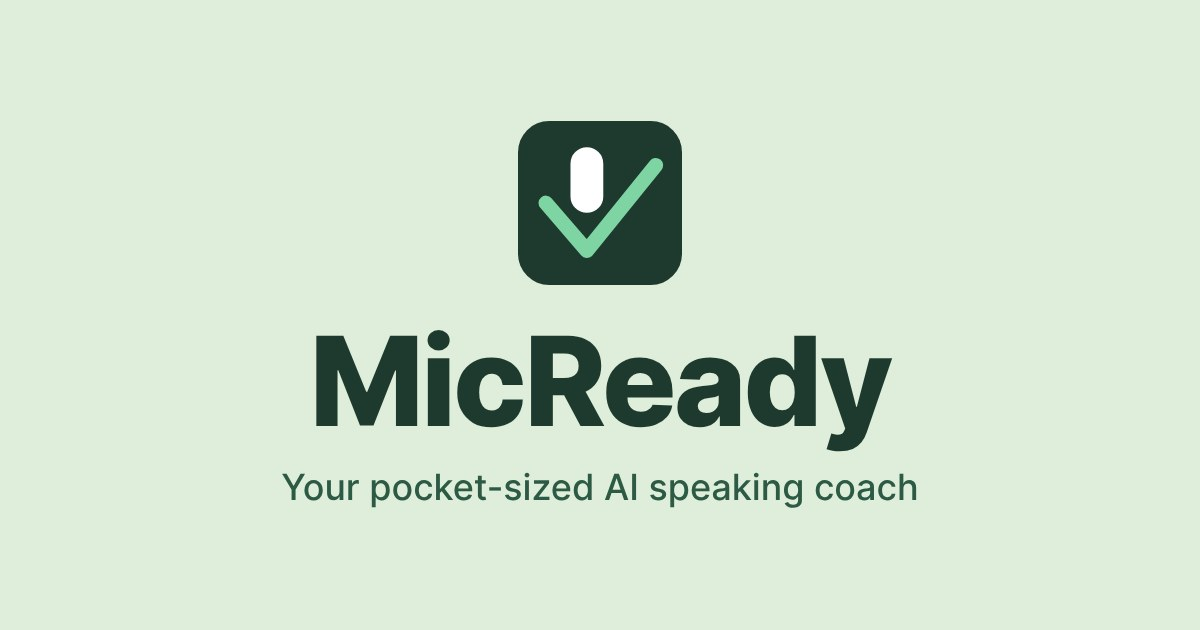
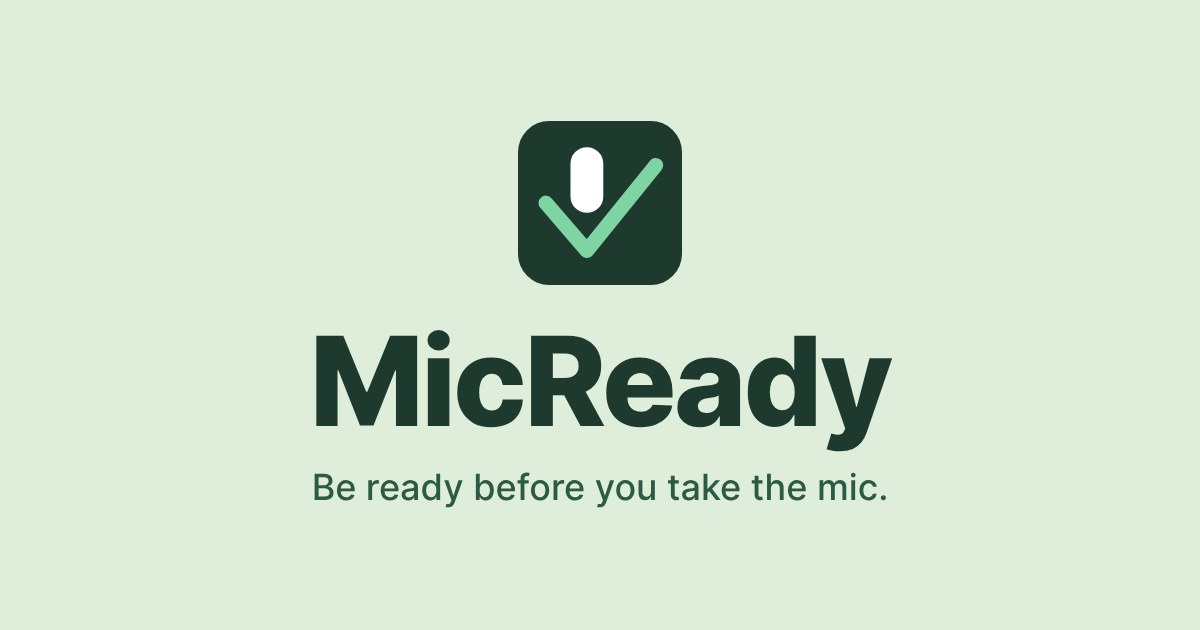
New tagline: "Be ready before you take the mic." (#18)
- Home page hero line and the social preview image use the new tagline.
- Page title and sharing titles read "MicReady: AI Speaking Coach with
  Real-Time Feedback", which keeps the words people search for.
- The installed app's full name is "MicReady: AI Speaking Coach".
- The Future page's Twitter title now matches its own page title.
- The hero line balances across two lines on narrow phones instead of
  leaving "mic." alone on the second line.
- The preview image URL moves to ?v=3 so sites fetch the new one.

Claude-Session: https://claude.ai/code/session_01HLcgoDkcAbEMsZRd6nWG28

Changed region(s): [[0.2158, 0.754, 0.7708, 0.8143]]

diff --git a/index.html b/index.html
@@ -3,7 +3,7 @@
 <head>
     <meta charset="UTF-8">
     <meta name="viewport" content="width=device-width, initial-scale=1.0">
-    <title>MicReady - Your Pocket-Sized AI Speaking Coach</title>
+    <title>MicReady: AI Speaking Coach with Real-Time Feedback</title>
     <meta name="description" content="Practice public speaking with real-time feedback. Catch filler words and track your pace as you speak.">
     <link rel="preload" href="fonts/inter-latin-wght-normal.woff2" as="font" type="font/woff2" crossorigin>
     <link rel="stylesheet" href="fonts/fonts.css">
@@ -26,7 +26,7 @@
    "price": "0",
    "priceCurrency": "USD"
   },
-  "image": "https://haroonbaig314-lgtm.github.io/MicReady/og-image.jpg?v=2",
+  "image": "https://haroonbaig314-lgtm.github.io/MicReady/og-image.jpg?v=3",
   "creator": {
    "@type": "Person",
    "name": "Haroon Baig"
@@ -133,19 +133,19 @@
     <link rel="apple-touch-icon" href="icons/apple-touch-icon.png?v=2">
     <meta name="theme-color" content="#1e3a2e">
     <!-- Open Graph -->
-    <meta property="og:title" content="MicReady - Your Pocket-Sized AI Speaking Coach">
+    <meta property="og:title" content="MicReady: AI Speaking Coach with Real-Time Feedback">
     <meta property="og:description" content="Practice public speaking with real-time feedback. Catch filler words and track your pace as you speak.">
-    <meta property="og:image" content="https://haroonbaig314-lgtm.github.io/MicReady/og-image.jpg?v=2">
+    <meta property="og:image" content="https://haroonbaig314-lgtm.github.io/MicReady/og-image.jpg?v=3">
     <meta property="og:url" content="https://haroonbaig314-lgtm.github.io/MicReady/">
     <meta property="og:type" content="website">
     <meta property="og:image:width" content="1200">
     <meta property="og:image:height" content="630">
-    <meta property="og:image:alt" content="MicReady logo: a white microphone head resting in a mint check mark on a dark green tile, above the word MicReady, on a light green background">
-    <meta name="twitter:image:alt" content="MicReady logo: a white microphone head resting in a mint check mark on a dark green tile, above the word MicReady, on a light green background">
+    <meta property="og:image:alt" content="MicReady logo: a white microphone head resting in a mint check mark on a dark green tile, above the word MicReady and the line &quot;Be ready before you take the mic.&quot;, on a light green background">
+    <meta name="twitter:image:alt" content="MicReady logo: a white microphone head resting in a mint check mark on a dark green tile, above the word MicReady and the line &quot;Be ready before you take the mic.&quot;, on a light green background">
     <meta name="twitter:card" content="summary_large_image">
-    <meta name="twitter:title" content="MicReady - Your Pocket-Sized AI Speaking Coach">
+    <meta name="twitter:title" content="MicReady: AI Speaking Coach with Real-Time Feedback">
     <meta name="twitter:description" content="Practice public speaking with real-time feedback. Catch filler words and track your pace as you speak.">
-    <meta name="twitter:image" content="https://haroonbaig314-lgtm.github.io/MicReady/og-image.jpg?v=2">
+    <meta name="twitter:image" content="https://haroonbaig314-lgtm.github.io/MicReady/og-image.jpg?v=3">
     <link rel="stylesheet" href="main.css">
     <link rel="stylesheet" href="features.css">
     <link rel="stylesheet" href="dark.css" id="darkCss" media="not all">
@@ -239,7 +239,7 @@
     <div class="hero-bg" aria-hidden="true"></div>
     <div class="hero-content">
         <h1>MicReady</h1>
-        <p class="tagline">Your Pocket-Sized AI Speaking Coach</p>
+        <p class="tagline">Be ready before you take the mic.</p>
         <p class="hero-desc">Practice public speaking with real-time feedback.</p>
         <div class="filler-cycler">
             <span class="filler-label">Say goodbye to:</span>

diff --git a/future.html b/future.html
@@ -13,17 +13,17 @@
     <!-- Open Graph -->
     <meta property="og:title" content="The Future of MicReady">
     <meta property="og:description" content="Planned MicReady features: voice profiles for classrooms, coach packs, guided learning modules, and an AI interview simulator.">
-    <meta property="og:image" content="https://haroonbaig314-lgtm.github.io/MicReady/og-image.jpg?v=2">
+    <meta property="og:image" content="https://haroonbaig314-lgtm.github.io/MicReady/og-image.jpg?v=3">
     <meta property="og:url" content="https://haroonbaig314-lgtm.github.io/MicReady/future.html">
     <meta property="og:type" content="website">
     <meta property="og:image:width" content="1200">
     <meta property="og:image:height" content="630">
-    <meta property="og:image:alt" content="MicReady logo: a white microphone head resting in a mint check mark on a dark green tile, above the word MicReady, on a light green background">
-    <meta name="twitter:image:alt" content="MicReady logo: a white microphone head resting in a mint check mark on a dark green tile, above the word MicReady, on a light green background">
+    <meta property="og:image:alt" content="MicReady logo: a white microphone head resting in a mint check mark on a dark green tile, above the word MicReady and the line &quot;Be ready before you take the mic.&quot;, on a light green background">
+    <meta name="twitter:image:alt" content="MicReady logo: a white microphone head resting in a mint check mark on a dark green tile, above the word MicReady and the line &quot;Be ready before you take the mic.&quot;, on a light green background">
     <meta name="twitter:card" content="summary_large_image">
-    <meta name="twitter:title" content="MicReady - Your Pocket-Sized AI Speaking Coach">
+    <meta name="twitter:title" content="The Future of MicReady">
     <meta name="twitter:description" content="Practice public speaking with real-time feedback. Catch filler words and track your pace as you speak.">
-    <meta name="twitter:image" content="https://haroonbaig314-lgtm.github.io/MicReady/og-image.jpg?v=2">
+    <meta name="twitter:image" content="https://haroonbaig314-lgtm.github.io/MicReady/og-image.jpg?v=3">
     <link rel="preload" href="fonts/inter-latin-wght-normal.woff2" as="font" type="font/woff2" crossorigin>
     <link rel="stylesheet" href="fonts/fonts.css">
     <link rel="stylesheet" href="site.css">

diff --git a/mvp.html b/mvp.html
@@ -15,15 +15,15 @@
     <meta name="theme-color" content="#1e3a2e">
     <meta property="og:title" content="MicReady MVP: Practice Speaking with Live Feedback">
     <meta property="og:description" content="Live filler, pause and pace feedback, timed practice modes, progress tracking and voice profiles, in your browser.">
-    <meta property="og:image" content="https://haroonbaig314-lgtm.github.io/MicReady/og-image.jpg?v=2">
+    <meta property="og:image" content="https://haroonbaig314-lgtm.github.io/MicReady/og-image.jpg?v=3">
     <meta property="og:url" content="https://haroonbaig314-lgtm.github.io/MicReady/mvp.html">
     <meta property="og:type" content="website">
     <meta property="og:image:width" content="1200">
     <meta property="og:image:height" content="630">
-    <meta property="og:image:alt" content="MicReady logo: a white microphone head resting in a mint check mark on a dark green tile, above the word MicReady, on a light green background">
+    <meta property="og:image:alt" content="MicReady logo: a white microphone head resting in a mint check mark on a dark green tile, above the word MicReady and the line &quot;Be ready before you take the mic.&quot;, on a light green background">
     <meta name="twitter:card" content="summary_large_image">
-    <meta name="twitter:image" content="https://haroonbaig314-lgtm.github.io/MicReady/og-image.jpg?v=2">
-    <meta name="twitter:image:alt" content="MicReady logo: a white microphone head resting in a mint check mark on a dark green tile, above the word MicReady, on a light green background">
+    <meta name="twitter:image" content="https://haroonbaig314-lgtm.github.io/MicReady/og-image.jpg?v=3">
+    <meta name="twitter:image:alt" content="MicReady logo: a white microphone head resting in a mint check mark on a dark green tile, above the word MicReady and the line &quot;Be ready before you take the mic.&quot;, on a light green background">
     <link rel="stylesheet" href="main.css">
     <link rel="stylesheet" href="features.css">
     <link rel="stylesheet" href="dark.css" id="darkCss" media="not all">

diff --git a/privacy.html b/privacy.html
@@ -10,7 +10,7 @@
     <meta property="og:description" content="How MicReady collects, uses, shares, and protects personal information, and how to exercise your privacy rights.">
     <meta property="og:url" content="https://haroonbaig314-lgtm.github.io/MicReady/privacy.html">
     <meta property="og:type" content="website">
-    <meta property="og:image" content="https://haroonbaig314-lgtm.github.io/MicReady/og-image.jpg?v=2">
+    <meta property="og:image" content="https://haroonbaig314-lgtm.github.io/MicReady/og-image.jpg?v=3">
     <meta name="twitter:card" content="summary_large_image">
     <link rel="icon" type="image/svg+xml" href="favicon.svg?v=2">
     <link rel="manifest" href="manifest.webmanifest">

diff --git a/data-request.html b/data-request.html
@@ -10,7 +10,7 @@
     <meta property="og:description" content="Request access to, correction of, or deletion of personal information MicReady holds about you.">
     <meta property="og:url" content="https://haroonbaig314-lgtm.github.io/MicReady/data-request.html">
     <meta property="og:type" content="website">
-    <meta property="og:image" content="https://haroonbaig314-lgtm.github.io/MicReady/og-image.jpg?v=2">
+    <meta property="og:image" content="https://haroonbaig314-lgtm.github.io/MicReady/og-image.jpg?v=3">
     <meta name="twitter:card" content="summary_large_image">
     <link rel="icon" type="image/svg+xml" href="favicon.svg?v=2">
     <link rel="manifest" href="manifest.webmanifest">

diff --git a/refund.html b/refund.html
@@ -10,7 +10,7 @@
     <meta property="og:description" content="MicReady refund and cancellation terms. MicReady is currently free and collects no payments.">
     <meta property="og:url" content="https://haroonbaig314-lgtm.github.io/MicReady/refund.html">
     <meta property="og:type" content="website">
-    <meta property="og:image" content="https://haroonbaig314-lgtm.github.io/MicReady/og-image.jpg?v=2">
+    <meta property="og:image" content="https://haroonbaig314-lgtm.github.io/MicReady/og-image.jpg?v=3">
     <meta name="twitter:card" content="summary_large_image">
     <link rel="icon" type="image/svg+xml" href="favicon.svg?v=2">
     <link rel="manifest" href="manifest.webmanifest">

diff --git a/terms.html b/terms.html
@@ -10,7 +10,7 @@
     <meta property="og:description" content="The terms that govern use of the MicReady website, the MicReady MVP, and the newsletter.">
     <meta property="og:url" content="https://haroonbaig314-lgtm.github.io/MicReady/terms.html">
     <meta property="og:type" content="website">
-    <meta property="og:image" content="https://haroonbaig314-lgtm.github.io/MicReady/og-image.jpg?v=2">
+    <meta property="og:image" content="https://haroonbaig314-lgtm.github.io/MicReady/og-image.jpg?v=3">
     <meta name="twitter:card" content="summary_large_image">
     <link rel="icon" type="image/svg+xml" href="favicon.svg?v=2">
     <link rel="manifest" href="manifest.webmanifest">

diff --git a/cookies.html b/cookies.html
@@ -10,7 +10,7 @@
     <meta property="og:description" content="The cookies, local storage, and third-party content used on the MicReady website.">
     <meta property="og:url" content="https://haroonbaig314-lgtm.github.io/MicReady/cookies.html">
     <meta property="og:type" content="website">
-    <meta property="og:image" content="https://haroonbaig314-lgtm.github.io/MicReady/og-image.jpg?v=2">
+    <meta property="og:image" content="https://haroonbaig314-lgtm.github.io/MicReady/og-image.jpg?v=3">
     <meta name="twitter:card" content="summary_large_image">
     <link rel="icon" type="image/svg+xml" href="favicon.svg?v=2">
     <link rel="manifest" href="manifest.webmanifest">

diff --git a/main.css b/main.css
@@ -255,6 +255,7 @@ nav {
     color: #ffffff;
     font-weight: 700;
     text-shadow: 0 2px 12px rgba(0,0,0,0.35);
+    text-wrap: balance;
 }
 .hero .hero-desc {
     font-size: 1.15rem;
